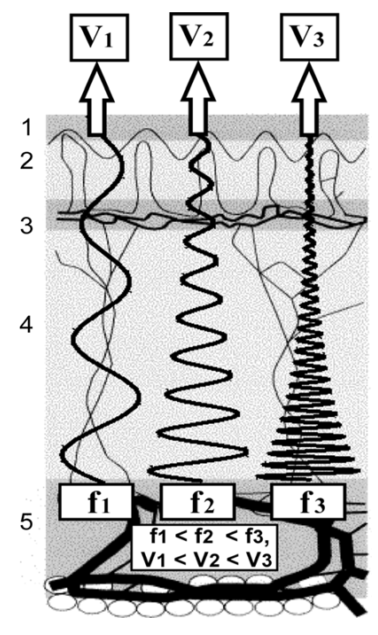
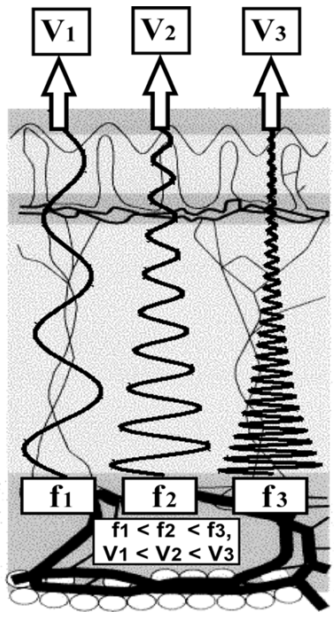
Fig in IR and vasomotion

diff --git a/contents/IfrAndVasomotion/IFR_and_Vasomotion.tex b/contents/IfrAndVasomotion/IFR_and_Vasomotion.tex
@@ -8,12 +8,12 @@ Spectral components of vasomotion seem to vary when influenced of some diseases.
 For measuring regulation in the peripheral blood flow, it is assumed that these oscillating changes are the source of thermal waves propagating from microvessels toward the skin surface. Especially thermal imaging uses this concept.\cite{sagaidachnyi2017}
 Furthermore a correlation between skin temperature in fingertips and blood flow oscillations has been found\cite{sagaidachnyi2014}.
 When the thermal waves propagate from the vessels towards the skin surface they are prone to some attenuation. This is due to skin properties that function like a low-frequency filter.\cite{podtaev2008}
-The magnitude of attenuation is directly proportional to the frequency.
+The magnitude of attenuation is directly proportional to the frequency and the frequency depends on the velocity of the wave propagation \cite{sagaidachnyi2014}.
 Therefore as illustrated in \cref{fig:atten}, a higher frequency leads to a higher attenuation.   
 
 \begin{figure}[H]
 	\centering	\includegraphics[width=0.28\textwidth]{figures/attenuation}
-	\caption{Graphical representation of amplitude dampening in three signals with different frequency.\cite{sagaidachnyi2014}}
+	\caption{Graphical representation of amplitude dampening through the skin in three signals with different frequency $f_{1}$ - $f_{3}$ and velocity $V_{1}$ - $V_{3}$.\cite{sagaidachnyi2014}}
 	\label{fig:atten}
 \end{figure} \vspace{-.3cm}
 
